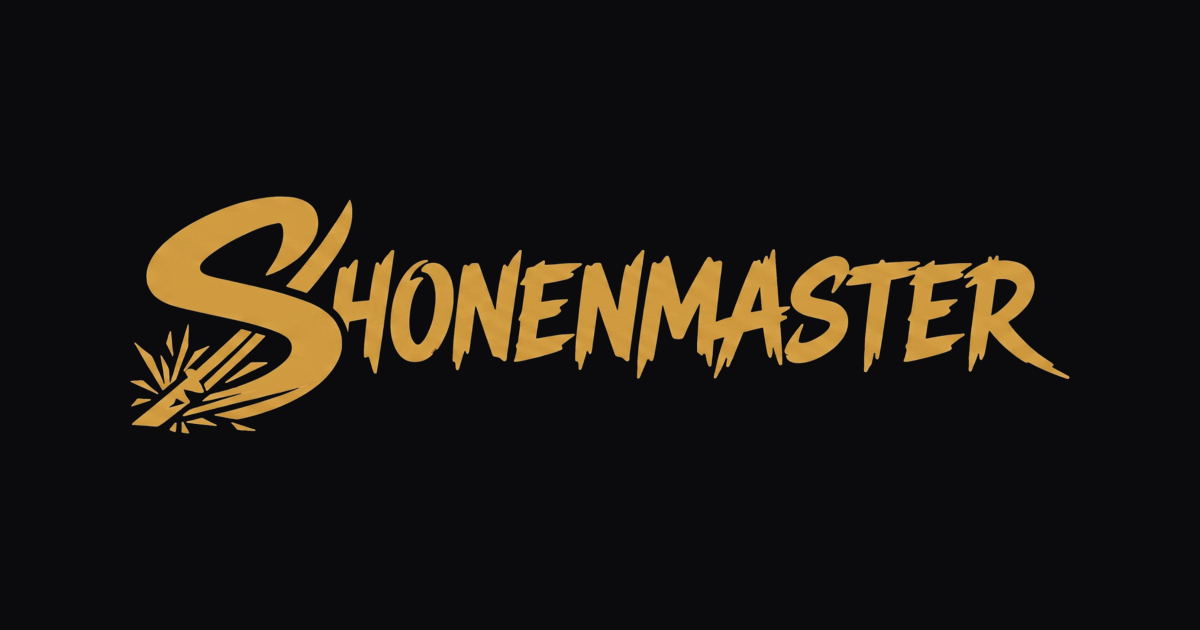
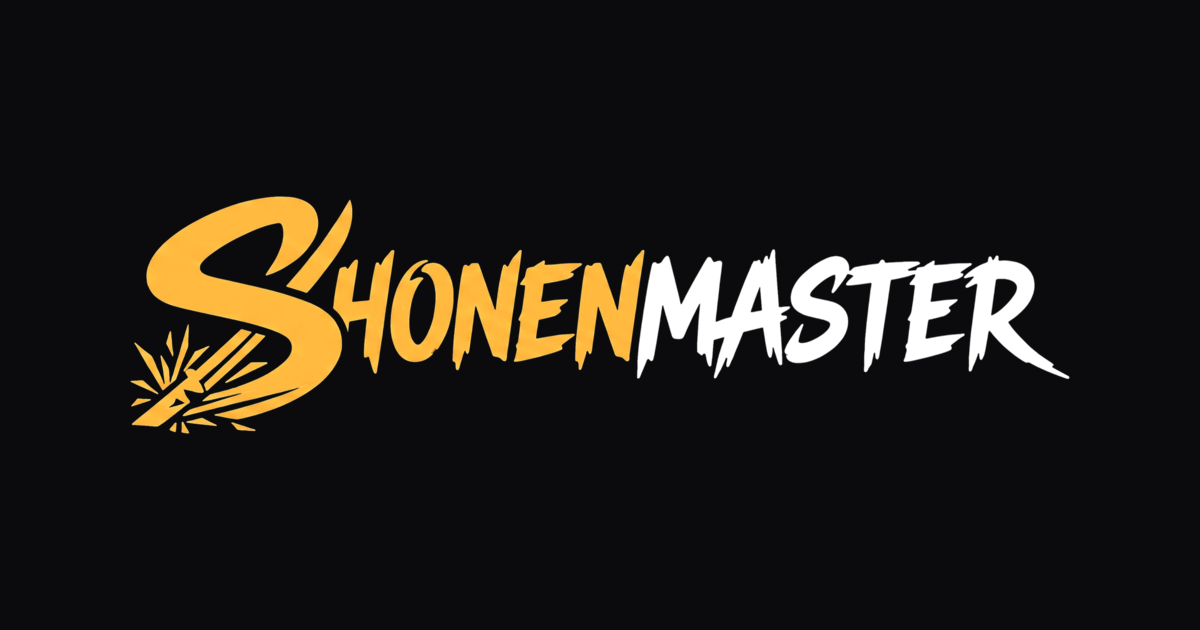
Identite : MASTER passe au blanc, et l or est cuit dans le fichier
Le titre reprend la coupure en deux tons de l ancien, mais dans l autre sens :
SHONEN dore, MASTER blanc. L inverse a ete essaye et ecarte — il decolorait
le S et le katana, or ce sont les deux formes qui vivent aussi dans le logo du
coin et dans le favicon, elles doivent rester dorees.

La coupe ne se fait pas a la verticale : les lettres se touchent, il n existe
aucune colonne vide entre le N et le M, et une ligne tranchait le M en deux.
Ce sont les formes connexes qui decident — le M commence a x=1071, pas 1118 —
et le lisere antialiase, qui n appartient a aucune forme, prend celle d a
cote. Aucune lettre n est coupee.

La brillance quitte le CSS pour le fichier : l or livre etait un #ce9940
terne, il est maintenant a #ffc040. Un filtre se recalculait a chaque image de
l animation ; un pixel deja dore ne coute rien. Ne reste que le halo.

Et le logotype gagne 2 rem au bureau.

Changed region(s): [[0.0925, 0.3016, 0.8633, 0.6937], [0.8633, 0.573, 0.8942, 0.6032]]

diff --git a/src/style/home.css b/src/style/home.css
@@ -6946,7 +6946,7 @@ body.game-active:has(.poll-game-container) #particles-js {
 
 .v2-hero-title img {
     display: block;
-    width: clamp(16rem, 52vw, 38rem);
+    width: clamp(16rem, 52vw, 40rem);
     max-width: 100%;
     height: auto;
     animation: v2Glow 5s ease-in-out infinite;
@@ -6955,13 +6955,12 @@ body.game-active:has(.poll-game-container) #particles-js {
 /* Le halo doré qui pulsait en text-shadow se rejoue en drop-shadow : même
    effet, mais qui épouse le dessin au lieu du rectangle de l'image. Le rayon
    est plus court — sur des lettres pleines, un flou de 3 rem noierait tout. */
-/* L or livre dans le fichier est un #ce9940, un or brun : c etait le plus
-   terne de la page, quand tout le reste — les grands chiffres, le S du coin —
-   tape a #FFD700. Le coup de brillance le remet dans la famille, sans toucher
-   au fichier ; passer les deux valeurs a 1 le rend tel quel. */
+/* La brillance etait ici, en filtre ; elle est desormais cuite dans le
+   fichier — un filtre se recalcule a chaque image de l'animation, un pixel
+   deja dore ne coute rien. Ne reste que le halo. */
 @keyframes v2Glow {
-    0%, 100% { filter: saturate(1.12) brightness(1.22) drop-shadow(0 0 1.6rem rgba(255, 190, 40, 0.14)); }
-    50%      { filter: saturate(1.12) brightness(1.22) drop-shadow(0 0 2.6rem rgba(255, 190, 40, 0.30)); }
+    0%, 100% { filter: drop-shadow(0 0 1.6rem rgba(255, 190, 40, 0.14)); }
+    50%      { filter: drop-shadow(0 0 2.6rem rgba(255, 190, 40, 0.30)); }
 }
 
 /* ── Stats en grand ───────────────────────── */
